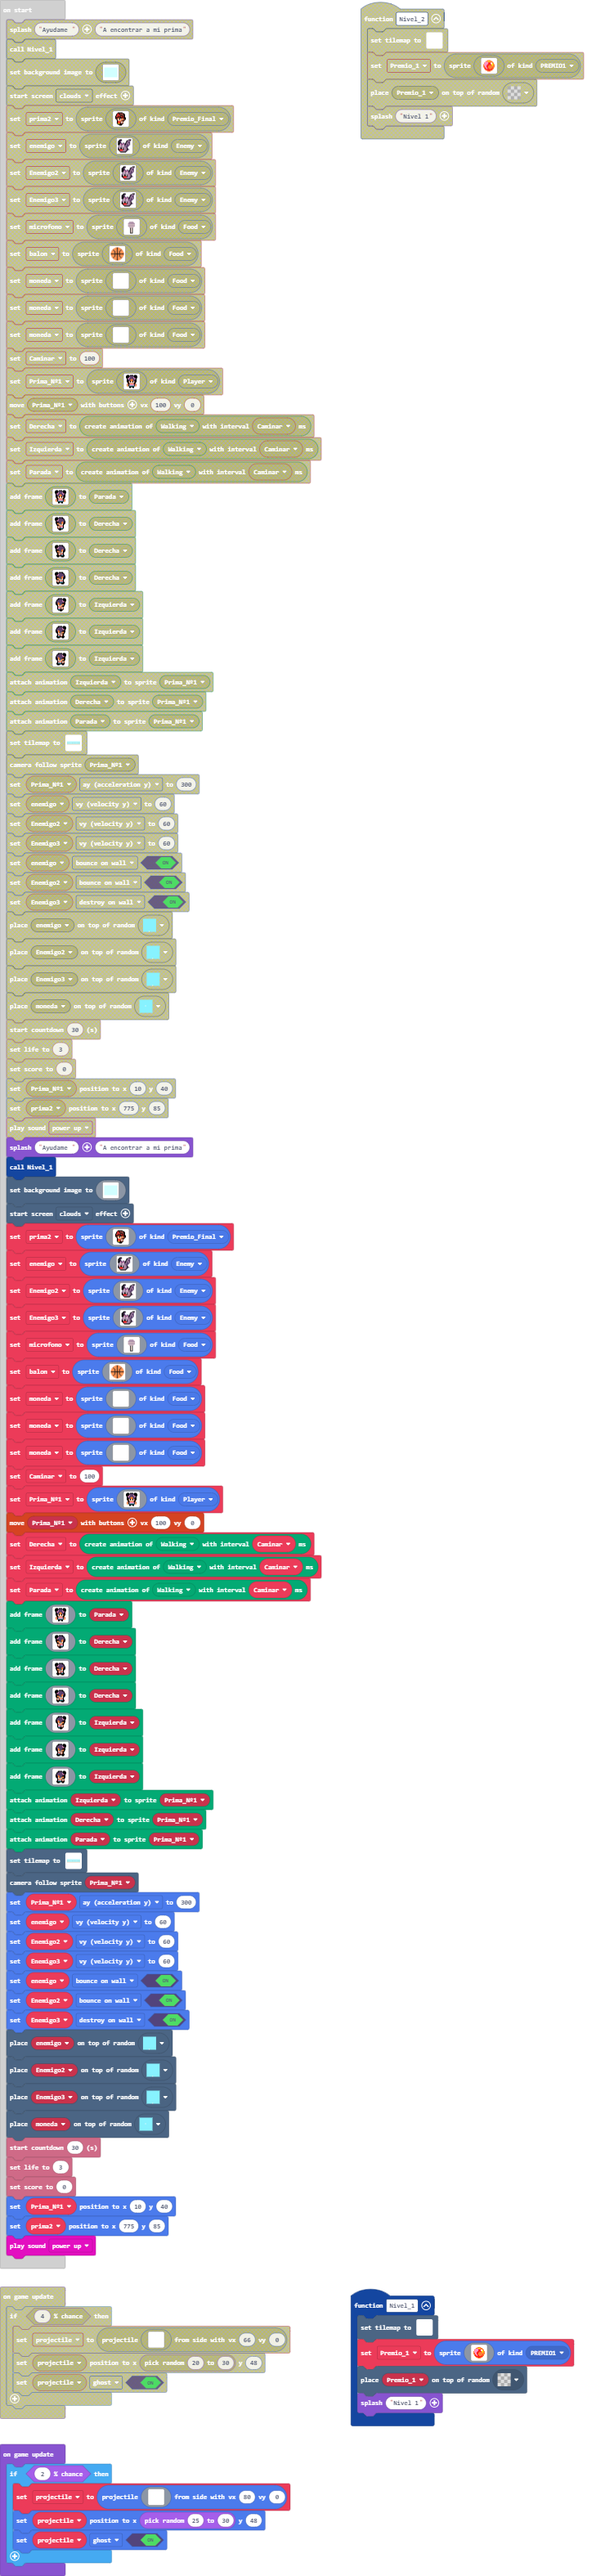
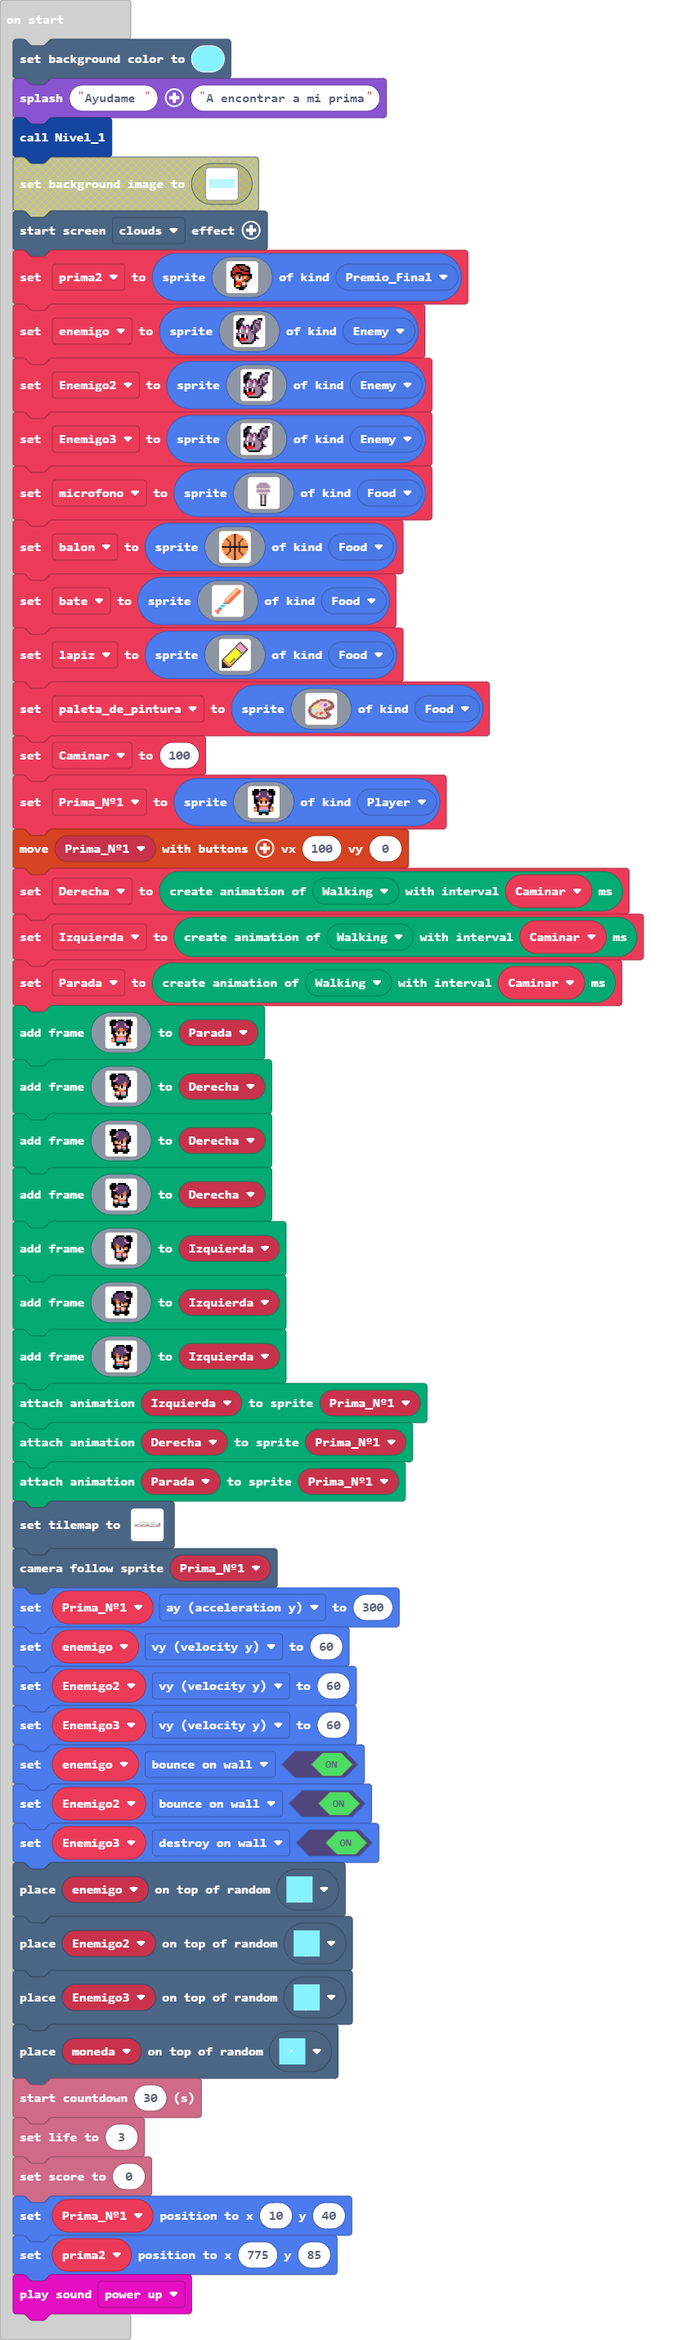
mapa baldosas

diff --git a/main.ts b/main.ts
@@ -163,30 +163,9 @@ let Prima_Nº1: Sprite = null
 let Enemigo3: Sprite = null
 let Enemigo2: Sprite = null
 let enemigo: Sprite = null
+scene.setBackgroundColor(9)
 game.splash("Ayudame ", "A encontrar a mi prima")
 Nivel_1()
-scene.setBackgroundImage(img`
-    9 9 9 9 9 9 9 9 9 9 9 9 9 9 9 9 9 9 9 9 9 9 9 9 9 9 9 9 9 9 9 9 9 9 9 9 9 9 9 9 9 9 9 9 9 9 9 9 9 9 9 9 9 9 9 9 9 9 9 9 
-    9 9 9 9 9 9 9 9 9 9 9 9 9 9 9 9 9 9 9 9 9 9 9 9 9 9 9 9 9 9 9 9 9 9 9 9 9 9 9 9 9 9 9 9 9 9 9 9 9 9 9 9 9 9 9 9 9 9 9 9 
-    9 9 9 9 9 9 9 9 9 9 9 9 9 9 9 9 9 9 9 9 9 9 9 9 9 9 9 9 9 9 9 9 9 9 9 9 9 9 9 9 9 9 9 9 9 9 9 9 9 9 9 9 9 9 9 9 9 9 9 9 
-    9 9 9 9 9 9 9 9 9 9 9 9 9 9 9 9 9 9 9 9 9 9 9 9 9 9 9 9 9 9 9 9 9 9 9 9 9 9 9 9 9 9 9 9 9 9 9 9 9 9 9 9 9 9 9 9 9 9 9 9 
-    9 9 9 9 9 9 9 9 9 9 9 9 9 9 9 9 9 9 9 9 9 9 9 9 9 9 9 9 9 9 9 9 9 9 9 9 9 9 9 9 9 9 9 9 9 9 9 9 9 9 9 9 9 9 9 9 9 9 9 9 
-    9 9 9 9 9 9 9 9 9 9 9 9 9 9 9 9 9 9 9 9 9 9 9 9 9 9 9 9 9 9 9 9 9 9 9 9 9 9 9 9 9 9 9 9 9 9 9 9 9 9 9 9 9 9 9 9 9 9 9 9 
-    9 9 9 9 9 9 9 9 9 9 9 9 9 9 9 9 9 9 9 9 9 9 9 9 9 9 9 9 9 9 9 9 9 9 9 9 9 9 9 9 9 9 9 9 9 9 9 9 9 9 9 9 9 9 9 9 9 9 9 9 
-    9 9 9 9 9 9 9 9 9 9 9 9 9 9 9 9 9 9 9 9 9 9 9 9 9 9 9 9 9 9 9 9 9 9 9 9 9 9 9 9 9 9 9 9 9 9 9 9 9 9 9 9 9 9 9 9 9 9 9 9 
-    9 9 9 9 9 9 9 9 9 9 9 9 9 9 9 9 9 9 9 9 9 9 9 9 9 9 9 9 9 9 9 9 9 9 9 9 9 9 9 9 9 9 9 9 9 9 9 9 9 9 9 9 9 9 9 9 9 9 9 9 
-    9 9 9 9 9 9 9 9 9 9 9 9 9 9 9 9 9 9 9 9 9 9 9 9 9 9 9 9 9 9 9 9 9 9 9 9 9 9 9 9 9 9 9 9 9 9 9 9 9 9 9 9 9 9 9 9 9 9 9 9 
-    9 9 9 9 9 9 9 9 9 9 9 9 9 9 9 9 9 9 9 9 9 9 9 9 9 9 9 9 9 9 9 9 9 9 9 9 9 9 9 9 9 9 9 9 9 9 9 9 9 9 9 9 9 9 9 9 9 9 9 9 
-    9 9 9 9 9 9 9 9 9 9 9 9 9 9 9 9 9 9 9 9 9 9 9 9 9 9 9 9 9 9 9 9 9 9 9 9 9 9 9 9 9 9 9 9 9 9 9 9 9 9 9 9 9 9 9 9 9 9 9 9 
-    9 9 9 9 9 9 9 9 9 9 9 9 9 9 9 9 9 9 9 9 9 9 9 9 9 9 9 9 9 9 9 9 9 9 9 9 9 9 9 9 9 9 9 9 9 9 9 9 9 9 9 9 9 9 9 9 9 9 9 9 
-    9 9 9 9 9 9 9 9 9 9 9 9 9 9 9 9 9 9 9 9 9 9 9 9 9 9 9 9 9 9 9 9 9 9 9 9 9 9 9 9 9 9 9 9 9 9 9 9 9 9 9 9 9 9 9 9 9 9 9 9 
-    9 9 9 9 9 9 9 9 9 9 9 9 9 9 9 9 9 9 9 9 9 9 9 9 9 9 9 9 9 9 9 9 9 9 9 9 9 9 9 9 9 9 9 9 9 9 9 9 9 9 9 9 9 9 9 9 9 9 9 9 
-    9 9 9 9 9 9 9 9 9 9 9 9 9 9 9 9 9 9 9 9 9 9 9 9 9 9 9 9 9 9 9 9 9 9 9 9 9 9 9 9 9 9 9 9 9 9 9 9 9 9 9 9 9 9 9 9 9 9 9 9 
-    9 9 9 9 9 9 9 9 9 9 9 9 9 9 9 9 9 9 9 9 9 9 9 9 9 9 9 9 9 9 9 9 9 9 9 9 9 9 9 9 9 9 9 9 9 9 9 9 9 9 9 9 9 9 9 9 9 9 9 9 
-    9 9 9 9 9 9 9 9 9 9 9 9 9 9 9 9 9 9 9 9 9 9 9 9 9 9 9 9 9 9 9 9 9 9 9 9 9 9 9 9 9 9 9 9 9 9 9 9 9 9 9 9 9 9 9 9 9 9 9 9 
-    9 9 9 9 9 9 9 9 9 9 9 9 9 9 9 9 9 9 9 9 9 9 9 9 9 9 9 9 9 9 9 9 9 9 9 9 9 9 9 9 9 9 9 9 9 9 9 9 9 9 9 9 9 9 9 9 9 9 9 9 
-    9 9 9 9 9 9 9 9 9 9 9 9 9 9 9 9 9 9 9 9 9 9 9 9 9 9 9 9 9 9 9 9 9 9 9 9 9 9 9 9 9 9 9 9 9 9 9 9 9 9 9 9 9 9 9 9 9 9 9 9 
-    `)
 effects.clouds.startScreenEffect()
 let prima2 = sprites.create(img`
     . . . . f f f f f f . . . . . . 
@@ -521,20 +500,20 @@ Izquierda.addAnimationFrame(img`
 animation.attachAnimation(Prima_Nº1, Izquierda)
 animation.attachAnimation(Prima_Nº1, Derecha)
 animation.attachAnimation(Prima_Nº1, Parada)
[1 lines of base64/hex data omitted]
-    . . . . . . . . . . . . . . . . . . . . . . . . . . . . . . . . . . . . . . . . . . . . . . . . . . . . . . . . . . . . 
-    . . . . . . . . . . . . . . . . . . . . . . . . . . . . . . . . . . . . . . . . . . . . . . . . . . . . . . . . . . . . 
-    . . . . . . . . . . . . . . . . . . . . . . . . . . . . . . . . . . . . . . . . . . . . . . . . . . . . . . . . . . . . 
-    . . . . . . . . . . . . . . . . . . . . . . . . . . . . . . . . . . . . . . . . . . . . . . . . . . . . . . . . . . . . 
-    . . . . . . . . . . . . . . . . . . . . . . . . . . . . . . . . . . . . . . . . . . . . . . . . . . . . . . . . . . . . 
-    . . . . . . . . . . . . . . . . . . . . . . . . . . . . . . . . . . . . . . . . . . . . . . . . . . . . . . . . . . . . 
-    2 2 2 2 2 2 . . 2 2 2 2 . . 2 . . 2 . 2 2 2 2 2 2 . . 2 2 2 2 2 2 . . 2 2 . . 2 2 2 2 2 2 2 2 2 2 2 . . . . . . . . . . 
-    . . . . . . . . . . . . . . . . . . . . . . . . . . . . . . . . . . . . . . . . . . . . . . . . . . . . . . . . . . . . 
-    . . . . . . . . . . . . . . . . . . . . . . . . . . . . . . . . . . . . . . . . . . . . . . . . . . . . . . . . . . . . 
-    . . . . . . . . . . . . . . . . . . . . . . . . . . . . . . . . . . . . . . . . . . . . . . . . . . . . . . . . . . . . 
-    . . . . . . . . . . . . . . . . . . . . . . . . . . . . . . . . . . . . . . . . . . . . . . . . . . . . . . . . . . . . 
-    . . . . . . . . . . . . . . . . . . . . . . . . . . . . . . . . . . . . . . . . . . . . . . . . . . . . . . . . . . . . 
-    `, [myTiles.transparency16,sprites.builtin.forestTiles0,myTiles.tile1,myTiles.tile7,myTiles.tile8,myTiles.tile2,myTiles.tile3,myTiles.tile6,myTiles.tile9,sprites.builtin.brick,sprites.dungeon.hazardSpike,myTiles.tile10,myTiles.tile11], TileScale.Sixteen))
[1 lines of base64/hex data omitted]
+    . . . . . . . . . . . . . . . . . . . 2 2 2 2 . . . . . . . . . . . . . . . . . . . . . . . . . . . . . . . . . . . . . 
+    . . . . . . . . . . . . . . . . . . . . . . 2 . . . . . . . . . . . . . . . . . . . . . . . . . . . . . . . . . . . . . 
+    . . . . . . . . . . . 2 2 2 2 . . . . . . . 2 2 2 2 2 2 . . . . . . . . . . . . . 2 2 2 2 2 2 2 . . . . . . . . . . . . 
+    . . . . . . . . . . . . . . 2 2 2 . . . . . . . . . . . . 2 2 2 2 . . 2 2 2 2 2 2 . . . . . . . . 2 2 . . . . . . . . . 
+    . . . . . . . . . . . . . . . . . . 2 . . . . . . . . . 2 . . . . . . . . . . . . . . . . . . . . . . . . . . . . . . . 
+    2 2 . . . . . . . . . . . . . . . . . . . . . . . . . . . . . . . . . . . . . . . . . . . . . . . . . . . . . . . . . . 
+    2 2 2 2 2 2 2 2 2 2 2 2 . . 2 . . 2 . 2 2 2 2 2 2 . . 2 2 2 2 2 2 . . 2 2 . . 2 2 2 2 2 2 2 2 2 2 2 . . . . . . . . . . 
+    2 2 2 2 2 2 2 2 2 2 2 2 . . 2 2 2 2 2 2 2 2 2 2 . . . 2 2 2 2 2 2 2 . . . . . . 2 2 2 2 2 2 2 . . . . 2 2 2 2 2 2 2 2 2 
+    2 2 2 2 2 . . . . . . . . . 2 2 2 2 2 2 . . . . . . 2 2 2 2 2 2 2 2 2 . . . . . . . . . . . . . . . 2 . . . . . . . . 2 
+    2 2 2 2 2 2 2 . . . . . . . 2 2 2 2 2 . . . . . . 2 2 2 2 2 2 2 2 2 2 2 . . . . . . . . . . . . 2 2 . . . . . . . . . 2 
+    2 2 2 2 2 2 2 2 2 2 2 2 2 2 2 2 2 2 2 2 2 2 2 2 2 2 2 2 2 2 2 2 2 2 2 2 2 2 2 2 2 2 2 2 2 2 . . . . . . . . . . . . . 2 
+    2 2 2 2 2 2 2 2 2 2 2 2 2 2 2 2 2 2 2 2 2 2 2 2 2 2 2 2 2 2 2 2 2 2 2 2 2 2 2 2 2 2 2 2 2 2 2 2 2 2 2 2 2 2 2 2 2 2 2 2 
+    `, [myTiles.transparency16,myTiles.tile1,myTiles.tile7,myTiles.tile8,myTiles.tile2,myTiles.tile3,myTiles.tile6,myTiles.tile9,sprites.builtin.brick,sprites.dungeon.hazardSpike,myTiles.tile10,myTiles.tile11,myTiles.tile12,myTiles.tile13,myTiles.tile14], TileScale.Sixteen))
 scene.cameraFollowSprite(Prima_Nº1)
 Prima_Nº1.ay = 300
 enemigo.vy = 60

diff --git a/tilemap.g.ts b/tilemap.g.ts
@@ -24,6 +24,12 @@ namespace myTiles {
     export const tile10 = image.ofBuffer(hex``);
     //% fixedInstance jres blockIdentity=images._tile
     export const tile11 = image.ofBuffer(hex``);
+    //% fixedInstance jres blockIdentity=images._tile
+    export const tile12 = image.ofBuffer(hex``);
+    //% fixedInstance jres blockIdentity=images._tile
+    export const tile13 = image.ofBuffer(hex``);
+    //% fixedInstance jres blockIdentity=images._tile
+    export const tile14 = image.ofBuffer(hex``);
 
 }
 // Auto-generated code. Do not edit.
